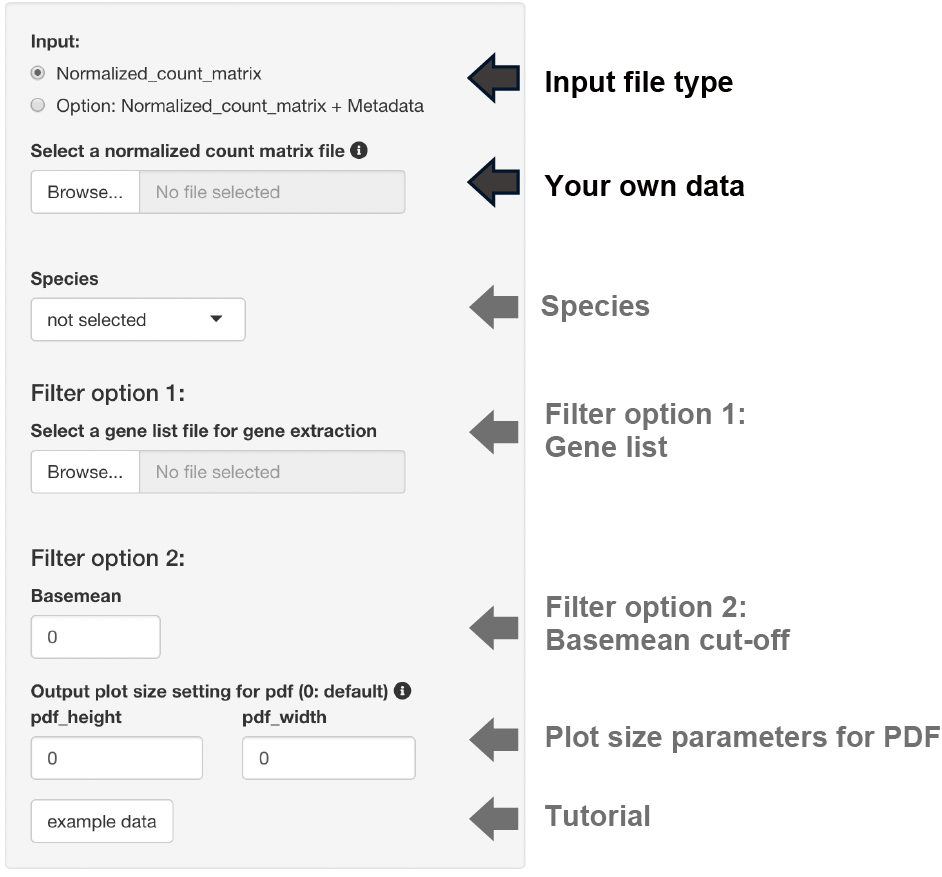
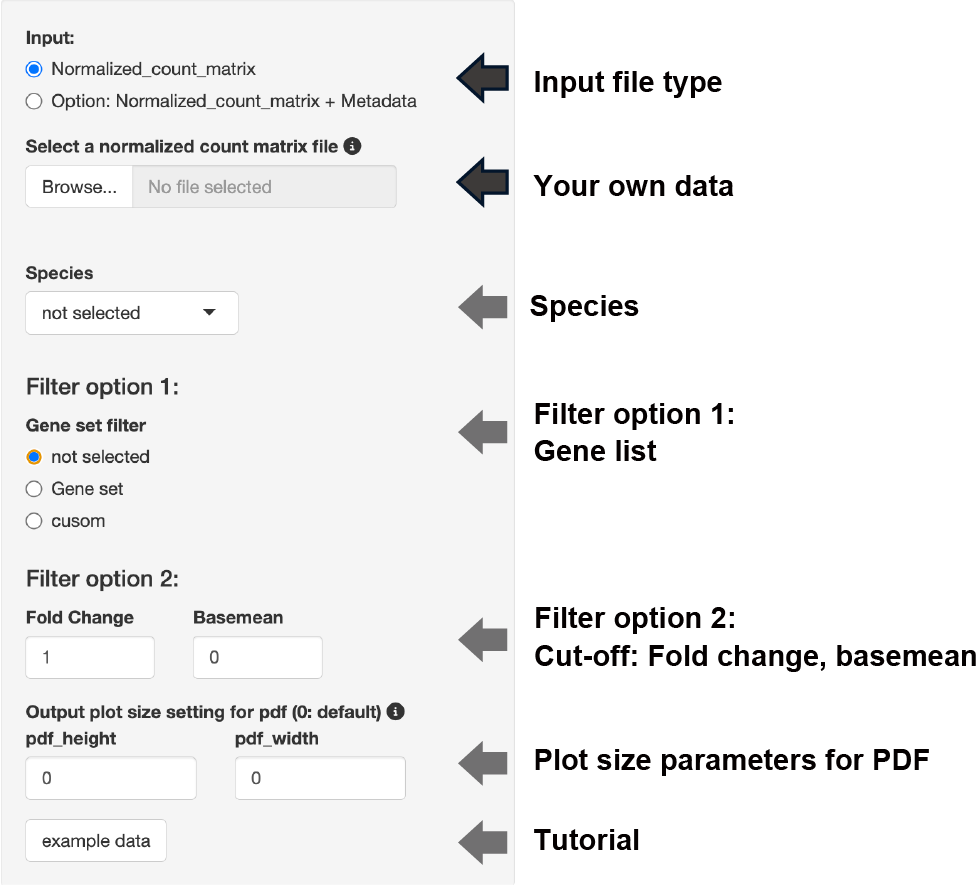
update

diff --git a/docs/index.html b/docs/index.html
@@ -7,7 +7,7 @@
 <meta charset="utf-8" />
 <meta name="generator" content="pandoc" />
 <meta http-equiv="X-UA-Compatible" content="IE=EDGE" />
-<meta name="google-site-verification" content="AKtpqQgvPScOVJFGeZDNIn71HNrOUUQSsv0XXnBUinI" />
+
 
 
 
@@ -237,7 +237,7 @@ div.tocify {
 
 
 <h1 class="title toc-ignore">RNAseqChef manual</h1>
-<h4 class="date">24/02/20 15:00</h4>
+<h4 class="date">24/08/19 21:19</h4>
 
 </div>
 
@@ -250,20 +250,40 @@ alt="DOI" /></a><br></p>
 <h1>概要</h1>
 <p><img src="manual_figure/graphical%20abstract_ver2.png" id="id"
 class="class" style="width:80.0%" /> <br><br></p>
-<div id="news-2024220" class="section level4">
-<h4>News (2024/2/20)</h4>
+<div id="news-2024819" class="section level4">
+<h4>News (2024/8/19)</h4>
 <ul>
+<li><strong>(2024/8/19)
+アプリをアップデートしました(v1.1.2)。</strong><br>
+<ul>
+<li>Normalized count analysis:セッティングパネルのFilter optionからGene
+setを選択できるようになりました。 例えば「“Hallmark gene
+set”の”Adipogenesis”に含まれる遺伝子」など興味あるパスウェイに含まれる遺伝子のみを簡単に抽出することができます。</li>
+<li>Boxplotのグラフデザインを改良しました。Normalized count
+analysisのGOI
+profilingに関しては、デザインや色を自由に選択できるようになりました。</li>
+<li>ENSEMBL
+ID(小数点を含む)を使用した場合に発生するバグを修正しました。</li>
+</ul></li>
 <li><strong>(2024/2/20)
 GREINに関する情報(よくある情報)を修正しました</strong></li>
-<li><strong>(2024/1/18)
-アプリをアップデートしました(v1.1.0)。</strong></li>
 <li><strong>(2024/1/18) ミラーサイトを用意しました(<a
 href="https://imeg-ku.shinyapps.io/RNAseqChef_mirror1/">mirror 1</a>, <a
 href="https://imeg-ku.shinyapps.io/RNAseqChef_mirror2/">mirror
 2</a>)。正規のURLにアクセスできない場合にご利用ください。</strong></li>
 <li><strong>(2024/1/18)「よくある質問」を更新しました。</strong></li>
-<li><strong>(2023/12/13) 統合TVに<a
-href="https://togotv.dbcls.jp/20231213.html">使用方法の説明動画</a>が掲載されました。</strong></li>
+</ul>
+</div>
+<div id="解説動画-統合tv" class="section level4">
+<h4>解説動画 (統合TV)</h4>
+<ul>
+<li><strong><a
+href="https://togotv.dbcls.jp/20240411.html">RNAseqChefをDocker環境で使って公開RNA-seqデータの3群間多重比較解析を行う</a></strong></li>
+<li><strong><a href="https://togotv.dbcls.jp/20240226.html">RNAseqChef
+を使って公共データベース上のRNA-seqデータに対して2群間の比較解析を行う</a></strong></li>
+<li><strong><a href="https://togotv.dbcls.jp/20231213.html">RNAseqChef:
+遺伝子発現変動を自動的に可視化するRNA-seq統合解析ツール @
+日本エピジェネティクス研究会リソースセミナー</a></strong></li>
 </ul>
 <p><br>
 RNAseqChefは、RNA-seqにより得たカウントデータを自動的に解析・可視化するウェブアプリです。
@@ -513,7 +533,8 @@ alt="pair-wise enrichment analysis" /><br></p>
 <div id="conditions-deg" class="section level1">
 <h1>3 conditions DEG</h1>
 <p>EBSeqによる多重比較解析を実行することで、３群間のDEGを同時に検出・可視化・機能解析結果を出力します。<br>
-注： 多重比較解析は時間がかかります（５〜１０分）。</p>
+注： 多重比較解析は時間がかかります（５〜１０分）。 (2024/3/13追記)
+EBSeq.v2が使えるようになりました。今までの数十倍の速度でDEG解析が実行できます。EBSeq.v1も今まで通り利用できます。</p>
 <div id="setting-1" class="section level2">
 <h2>Setting</h2>
 <p><img src="manual_figure/cond%203%20set.png" id="id" class="class"
@@ -555,6 +576,12 @@ style="width:50.0%" alt="unchanged image" /> <br><br></p>
 summary”ボタンを押すことでRecode.Rdataファイルを取得していた場合に限り、使用可能なオプションです。
 Recode.Rdataファイルをアップロードすることで、時間のかかるEBSeqによるDEG解析をスキップすることができます。</p>
 <hr />
+</div>
+<div id="ebseq" class="section level4">
+<h4>EBSeq</h4>
+<p>EBSeq.v2とEBSeq.v1を切り替えることができます。
+EBSeq.v2に関する詳細は<a
+href="https://www.biorxiv.org/content/10.1101/2020.06.19.162180v2.full">こちら</a>をご覧ください。</p>
 </div>
 <div id="species-1" class="section level4">
 <h4>Species</h4>
@@ -1020,9 +1047,13 @@ style="width:50.0%" alt="unchanged image" /> <br><br></p>
 </div>
 <div id="filter-option-1" class="section level4">
 <h4>Filter option 1</h4>
-<p>gene
-listをアップロードすることで、目的の遺伝子グループのみを抽出後、クラスタリング解析を実行します。
-<br> <br></p>
+<p><strong>Gene set filterから”Gene set”を選択</strong> <br>
+エンリッチメント解析で使用できるGene
+setを選択できます。選択したパスウェイに含まれる遺伝子のみを抽出して解析を実行します。<br>
+<strong>Gene set filterから”custom”を選択</strong> <br> gene
+listをアップロードすることで、目的の遺伝子のみを抽出することができます。
+<br> <br> <img src="manual_figure/norm%20set%20geneset.png" id="id"
+class="class" style="width:50.0%" alt="norm set" /><br><br></p>
 </div>
 <div id="filter-option-2" class="section level4">
 <h4>Filter option 2</h4>
@@ -1071,9 +1102,16 @@ of interest
 <strong>statistics</strong>:条件が２群の場合は、<strong>Welch’s
 t-test</strong>と<strong>Wilcoxon test</strong>が選択可能です。
 条件が３群以上の場合は、<strong>TukeyHSD</strong>と<strong>Dunnett’s
-test</strong>、<strong>Wilcoxon test</strong>が選択可能です。
+test</strong>、<strong>Dunn’s test</strong>が選択可能です。
 200遺伝子まで一括で統計処理、有意差のマーク入りのグラフが描写できます。<br>
-<strong>PlotType</strong>:<strong>Boxplot</strong>、<strong>Barplot</strong>、<strong>Errorplot</strong>が選択可能です。<br></p>
+<strong>PlotType</strong>:<strong>Boxplot</strong>、<strong>Barplot</strong>、<strong>violinplot</strong>、<strong>Errorplot</strong>が選択可能です。<br>
+<strong>graph design</strong>:
+新しいグラフデザインと今までのグラフデザインを切り替えることができます。<br>
+<strong>Color palette</strong>: グラフの色を選択できます。<br>
+<strong>Color reverse</strong>: グラフの色の順番を逆転できます。<br>
+<strong>min value of y-axis</strong>: y軸の最低値を変更できます
+(default:
+0)。値を未入力とすると最低値のサンプルを参考に算出されます。<br></p>
 <p><img src="manual_figure/norm%20goi1.png" id="id" class="class"
 style="width:80.0%" alt="norm goi" /><br> <img
 src="manual_figure/norm%20goi2.png" id="id" class="class"
@@ -1324,6 +1362,9 @@ class="uri">https://CRAN.R-project.org/package=DT</a></li>
 <li>Ning Leng and Christina Kendziorski (2020). EBSeq: An R package for
 gene and isoform differential expression analysis of RNA-seq data. R
 package version 1.30.0.</li>
+<li>Ma X, Leng N (2019). EBSeq: An R package for gene and isoform
+differential expression analysis of RNA-seq data. R package version
+1.99.0.</li>
 </ul>
 <p>DESeq2 (for deseq2)</p>
 <ul>
@@ -1854,7 +1895,7 @@ You may contact the author of this code, Kan Etoh, at &lt;kaneto@kumamoto-u.ac.j
 ## [117] R6_2.5.1                    lifecycle_1.0.3            
 ## [119] curl_5.0.0                  ggsignif_0.6.4             
 ## [121] jquerylib_0.1.4             DO.db_2.9                  
-## [123] Matrix_1.5-3                RColorBrewer_1.1-3         
+## [123] Matrix_1.6-4                RColorBrewer_1.1-3         
 ## [125] iterators_1.0.14            htmlwidgets_1.6.2          
 ## [127] polyclip_1.10-4             shadowtext_0.1.2           
 ## [129] timechange_0.2.0            gridGraphics_0.5-1         
